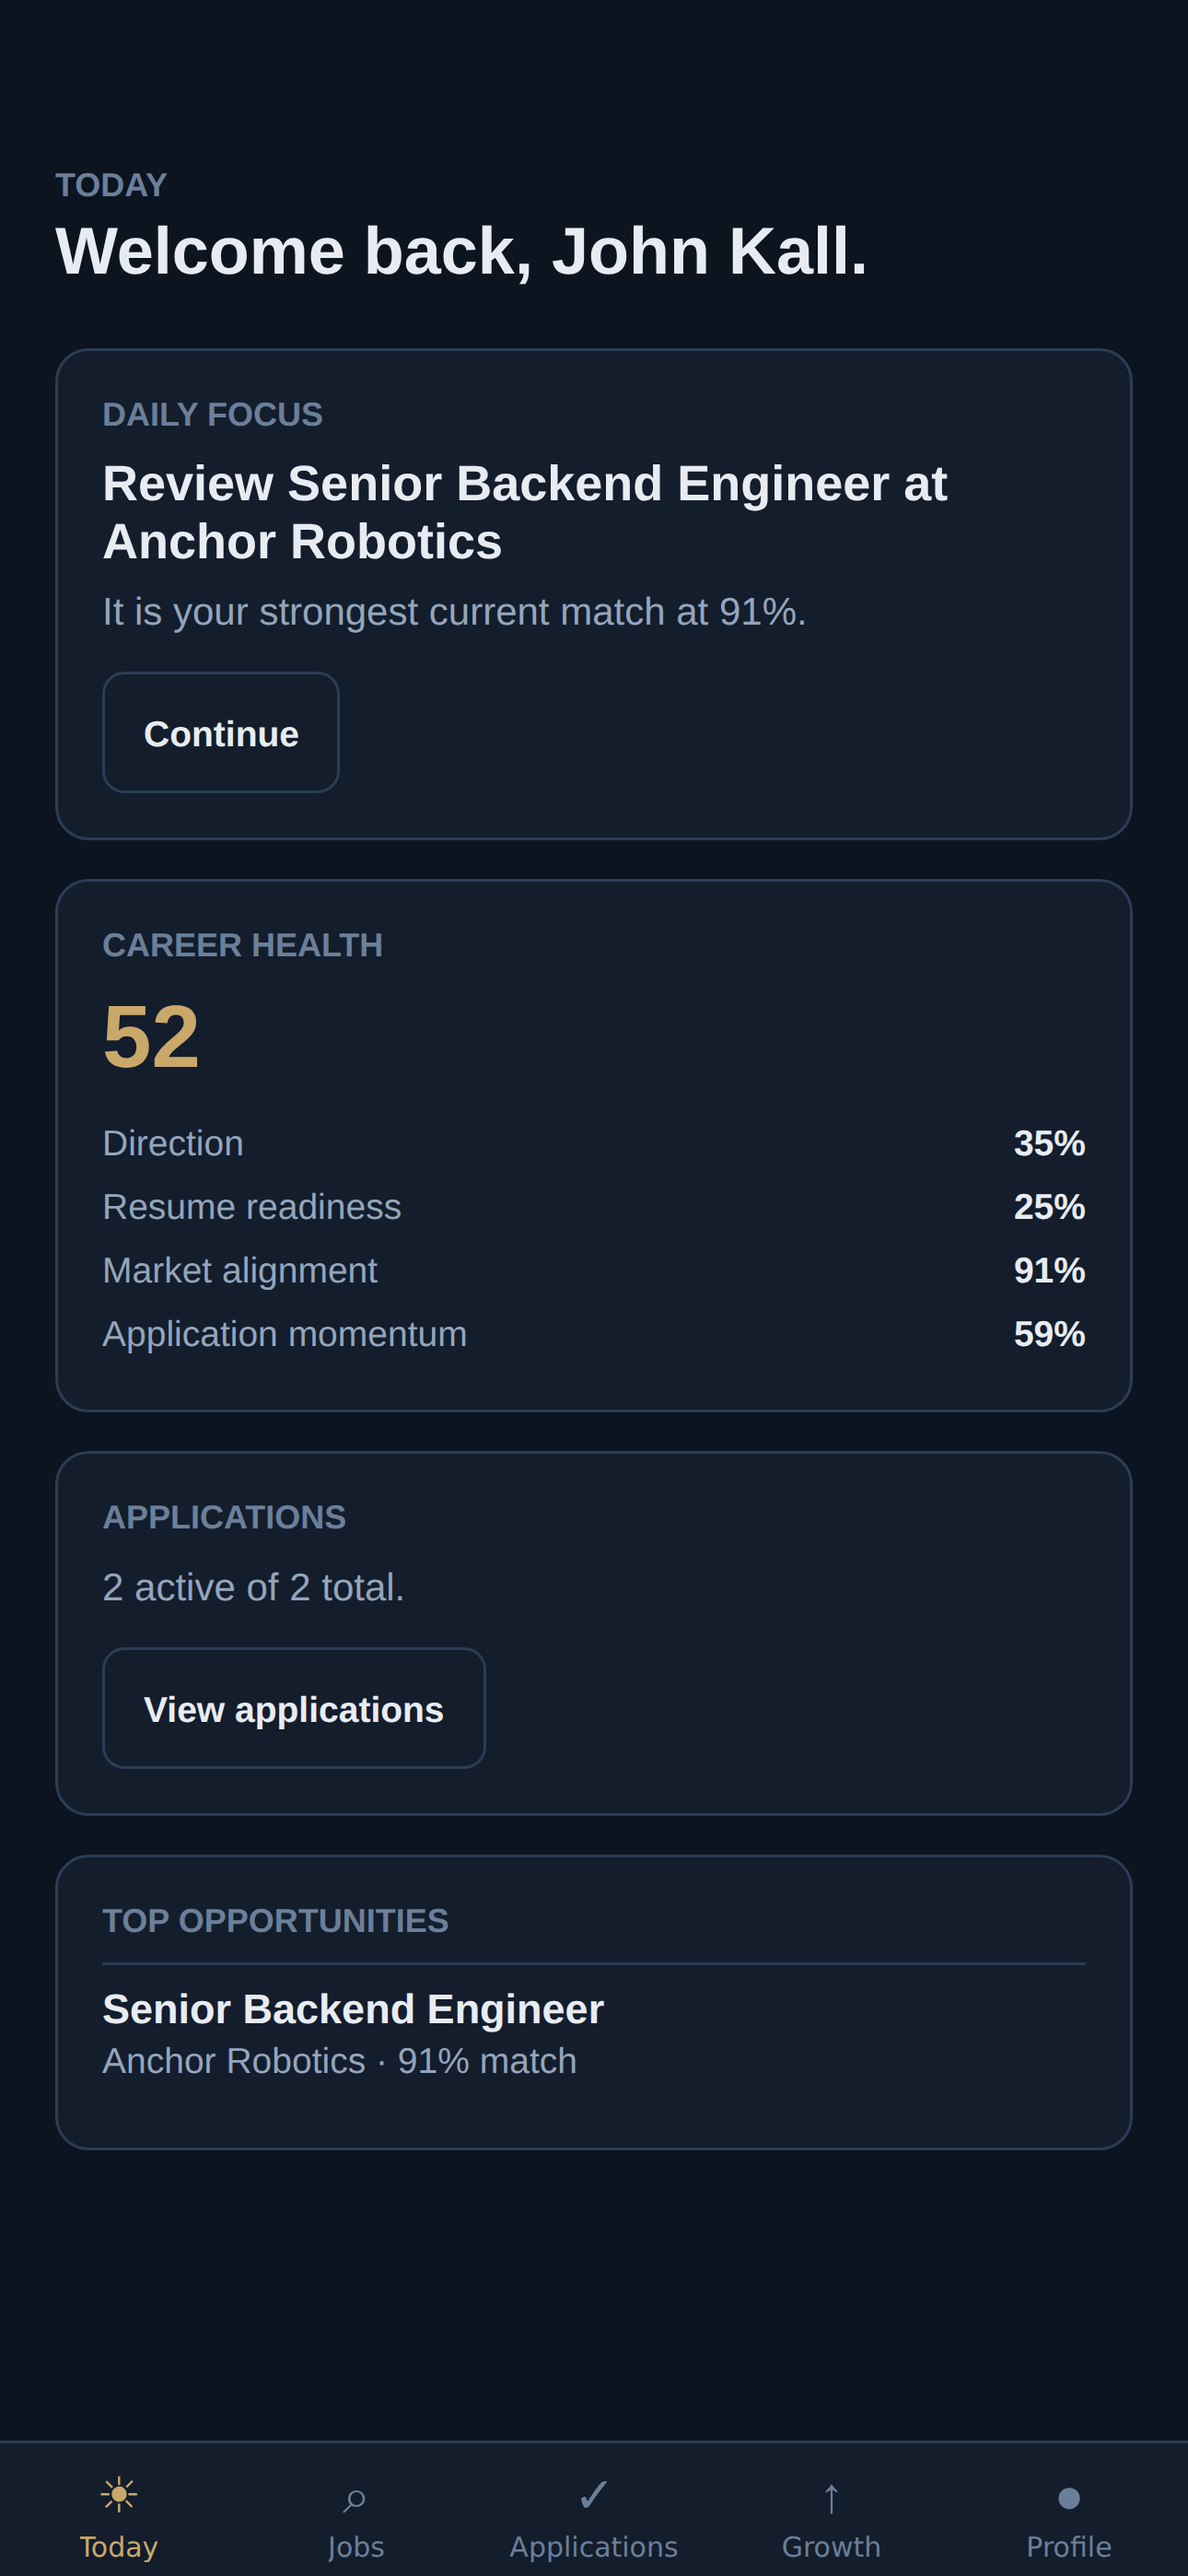
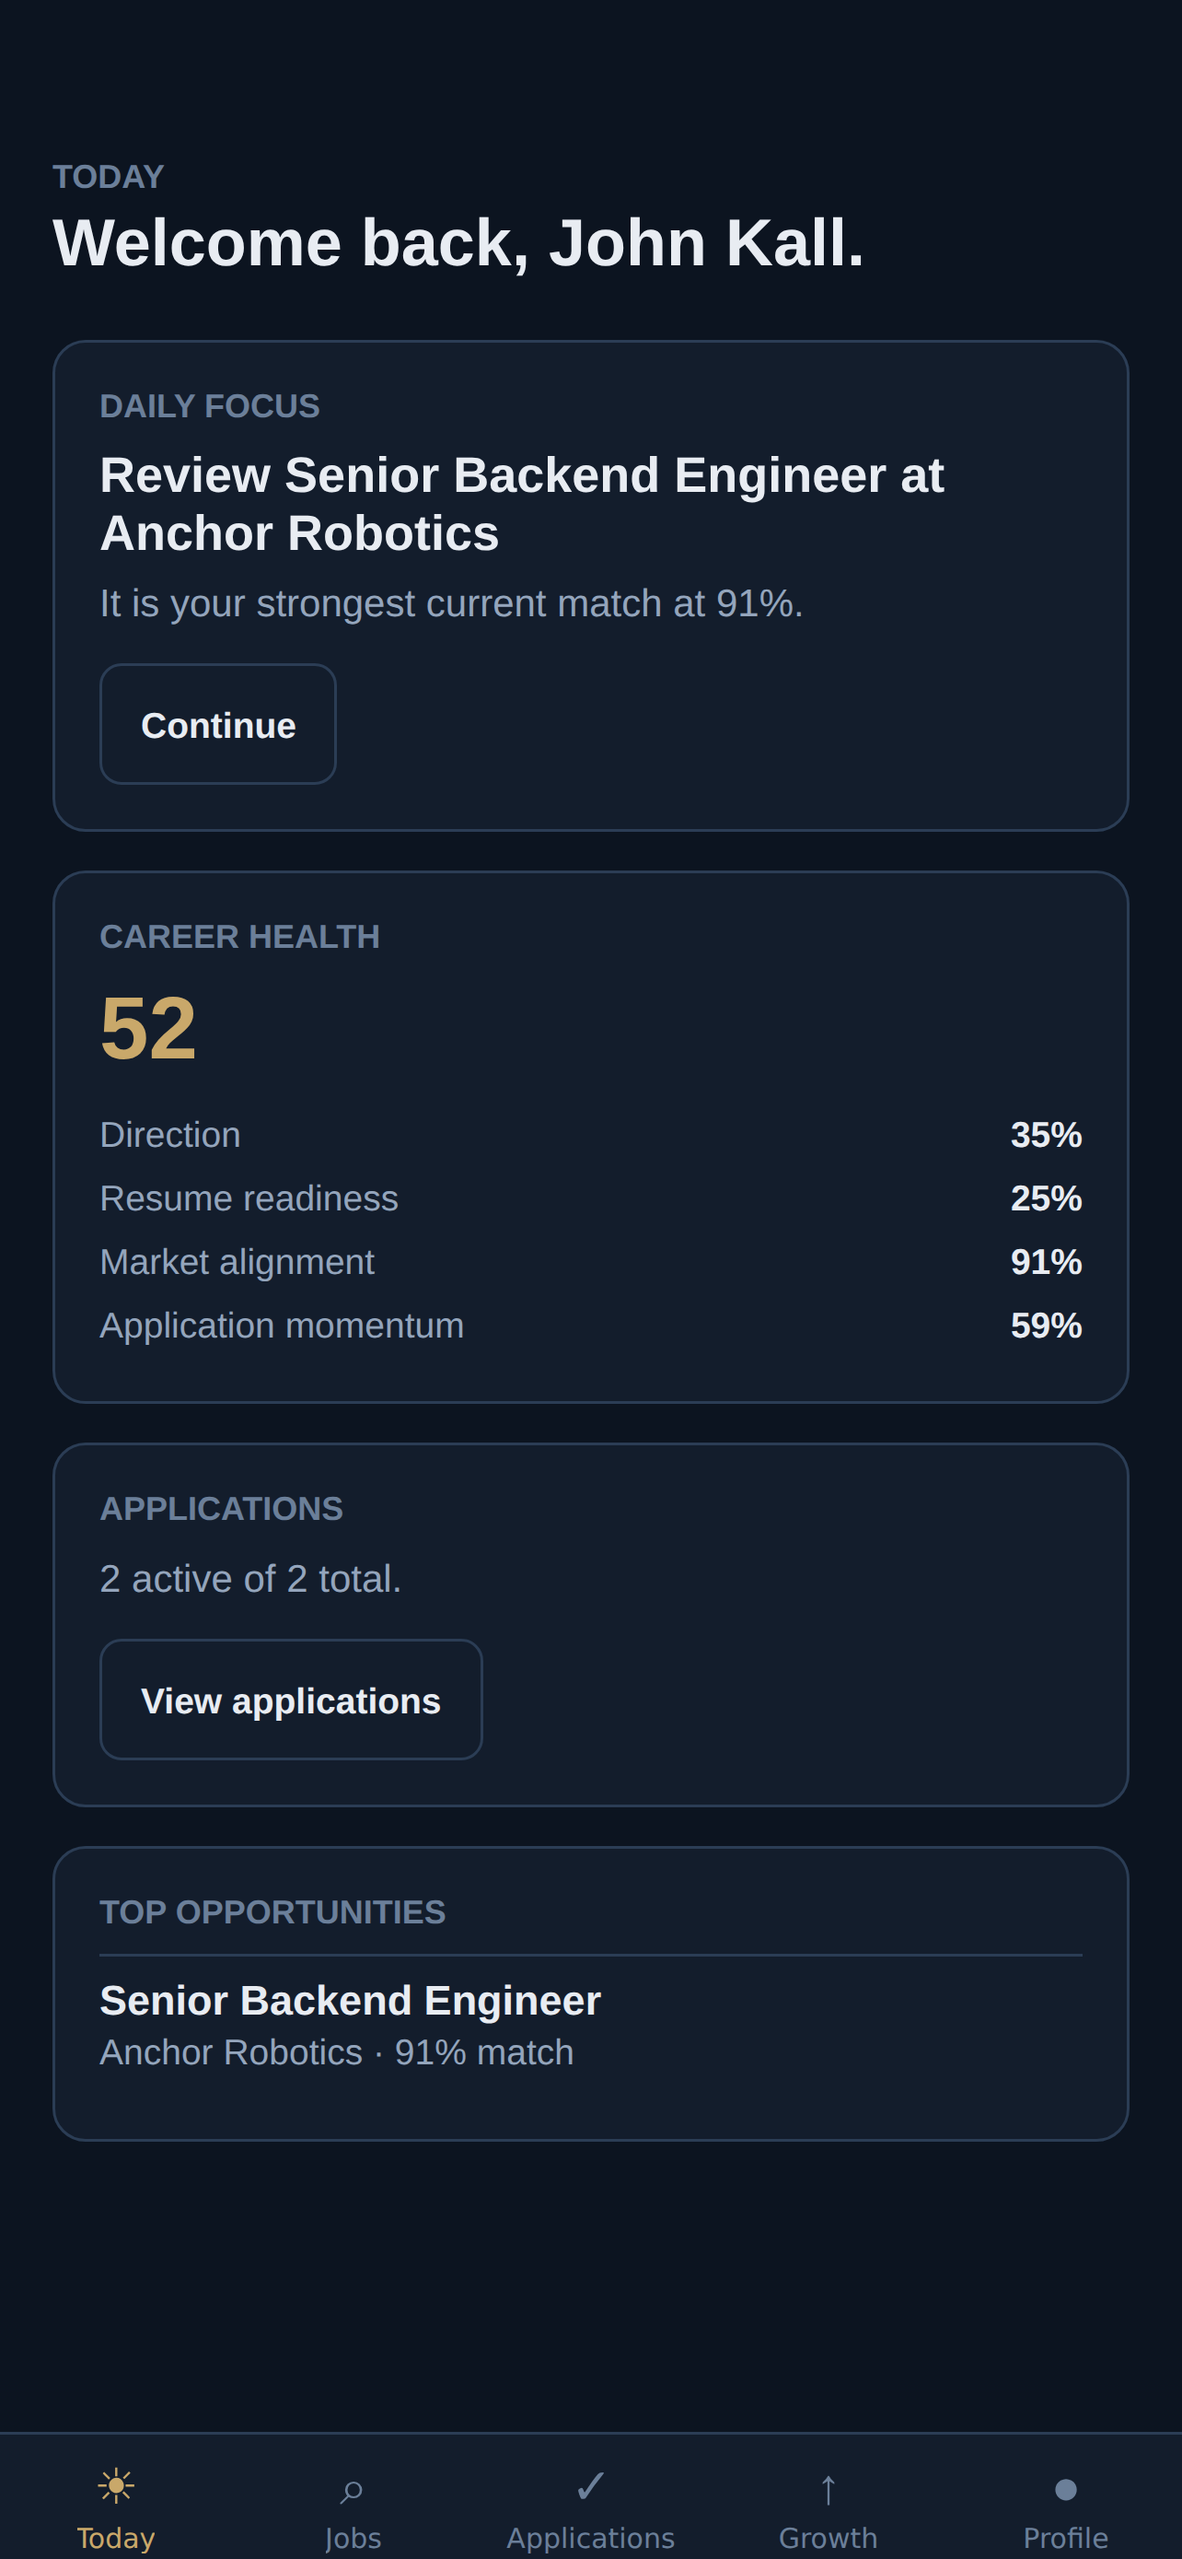
fix(mobile): enforce App Store screenshot dimensions

diff --git a/apps/mobile/store-assets/ios/README.md b/apps/mobile/store-assets/ios/README.md
@@ -1,10 +1,14 @@
 # Kall App Store screenshots
 
 Run the manual `Mobile Store Screenshots` workflow after any material mobile UI
-change. Its `iphone/` artifact contains five 1290x2796 screenshots for the
-6.7-inch iPhone display class, and its `ipad/` artifact contains five 2064x2752
-screenshots for the 13-inch iPad display class. Both are captured from the same
-authenticated Kall mobile flow as the Android listing set.
+change. Its `iphone/` artifact contains five 1284x2778 screenshots accepted by
+the 6.5-inch and 6.7-inch iPhone display slots, and its `ipad/` artifact
+contains five 2064x2752 screenshots for the 13-inch iPad display class. Both
+are captured from the same authenticated Kall mobile flow as the Android
+listing set.
+
+`npm run validate:ios-alpha` rejects a stored screenshot that drifts from
+either exact App Store size.
 
 These listing screenshots demonstrate applications, application review, the
 morning brief, opportunities, and growth. The sign-in screen is deliberately

diff --git a/apps/mobile/store-assets/android/README.md b/apps/mobile/store-assets/android/README.md
@@ -42,7 +42,8 @@
   `apps/mobile/e2e/seed_screenshot_data.py` for how the account and its
   sample applications are built and torn down.
 
-The same workflow captures an iOS 6.7-inch set at 1290x2796. Both store sets
-use the current public-registration policy. Subscription review artwork is
-captured separately after native purchases are enabled because it must show the
-real store-backed purchase screen.
+The same workflow captures an App Store-compliant iPhone set at 1284x2778 and
+an iPad set at 2064x2752. Both store sets use the current public-registration
+policy. Subscription review artwork is captured separately after native
+purchases are enabled because it must show the real store-backed purchase
+screen.
